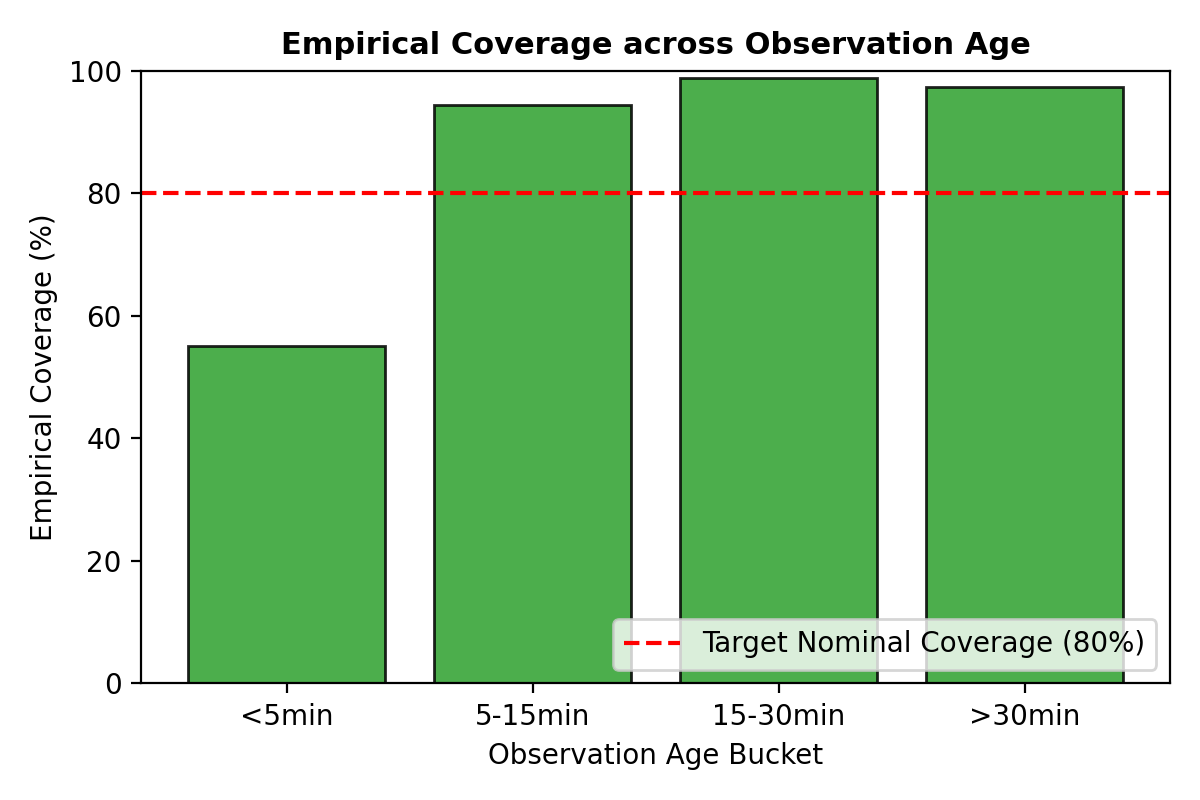
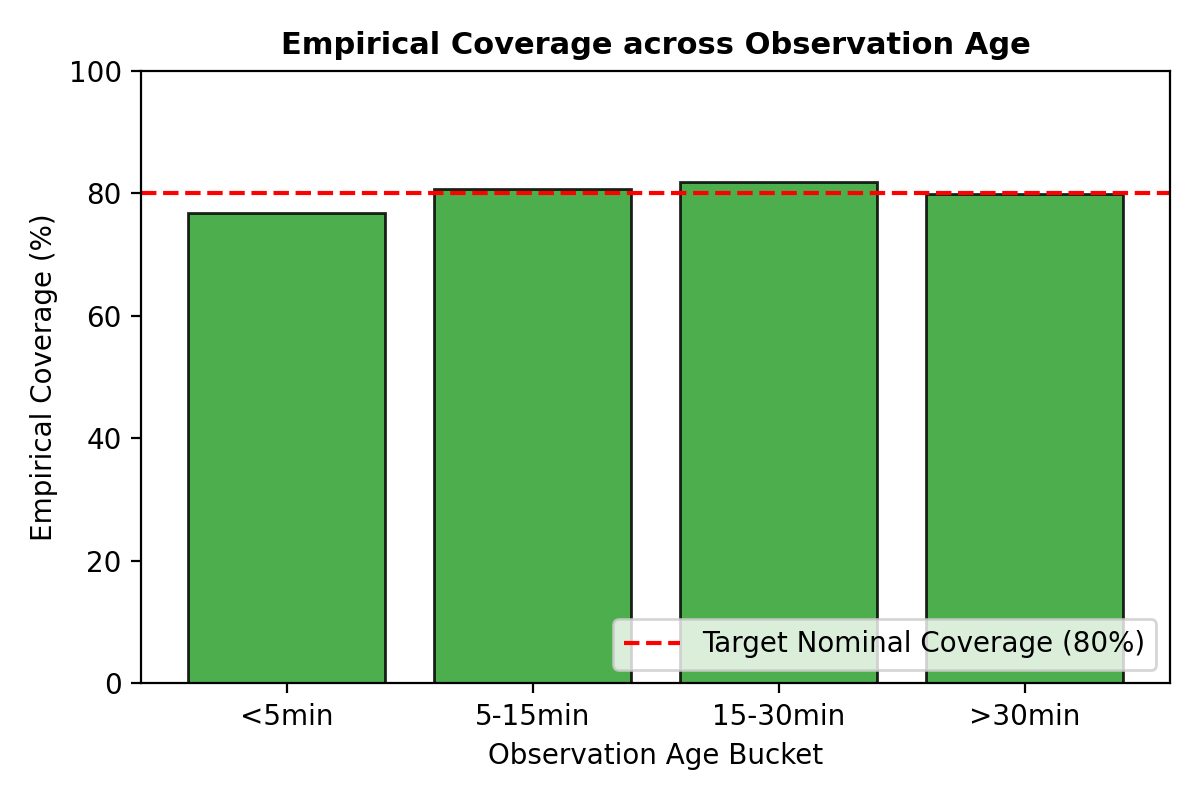
Calibrate fusion hyperparameters and age-bucket coverage

Changed region(s): [[0.3392, 0.0938, 0.74, 0.25], [0.1542, 0.25, 0.3392, 0.4375], [0.7708, 0.0938, 0.9558, 0.25]]

diff --git a/vision/src/fusion.py b/vision/src/fusion.py
@@ -19,7 +19,7 @@ class FusionConfig:
     NOTE: These are starting values, tuned on tuning seeds only, not claims of optimal real-world performance.
     """
     # Source intrinsic reliabilities R in [0, 1]
-    rel_camera_managed: float = 0.98
+    rel_camera_managed: float = 0.90
     rel_camera_open: float = 0.88
     rel_manual: float = 0.95
     rel_prior: float = 0.20
@@ -32,16 +32,16 @@ class FusionConfig:
     sigma_sys_camera_managed: float = 0.2     # Systematic slot classifier error
     sigma_camera_open: float = 1.5            # YOLO open-zone detection count error
     sigma_manual: float = 0.5                 # Manual operator entry error
-    sigma_event_rate: float = 0.3             # Extra variance per check-in/out event (drop / miscount rate)
+    sigma_event_rate: float = 0.1             # Extra variance per check-in/out event (drop / miscount rate)
 
     # Uncertainty temporal drift rate in variance units (slots^2) per minute
-    variance_drift_per_min: float = 0.5
+    variance_drift_per_min: float = 0.2
 
     # Managed lot fresh exact threshold (seconds)
     managed_exact_age_threshold_sec: float = 5.0
 
     # Normal distribution z-score for 80% symmetric interval
-    z_80: float = 1.28155
+    z_80: float = 1.17
 
 
 def _to_utc_timestamp(dt: Union[datetime, str]) -> datetime:
@@ -233,7 +233,7 @@ def estimate_occupancy(
     # A fresh exact source in a managed lot should collapse the range to a single value.
     is_fresh_exact_managed = (
         zone_type == "managed"
-        and freshest_anchor_source is not None
+        and freshest_anchor_source in ("manual", "gate")
         and freshest_anchor_age <= config.managed_exact_age_threshold_sec
     )
 
